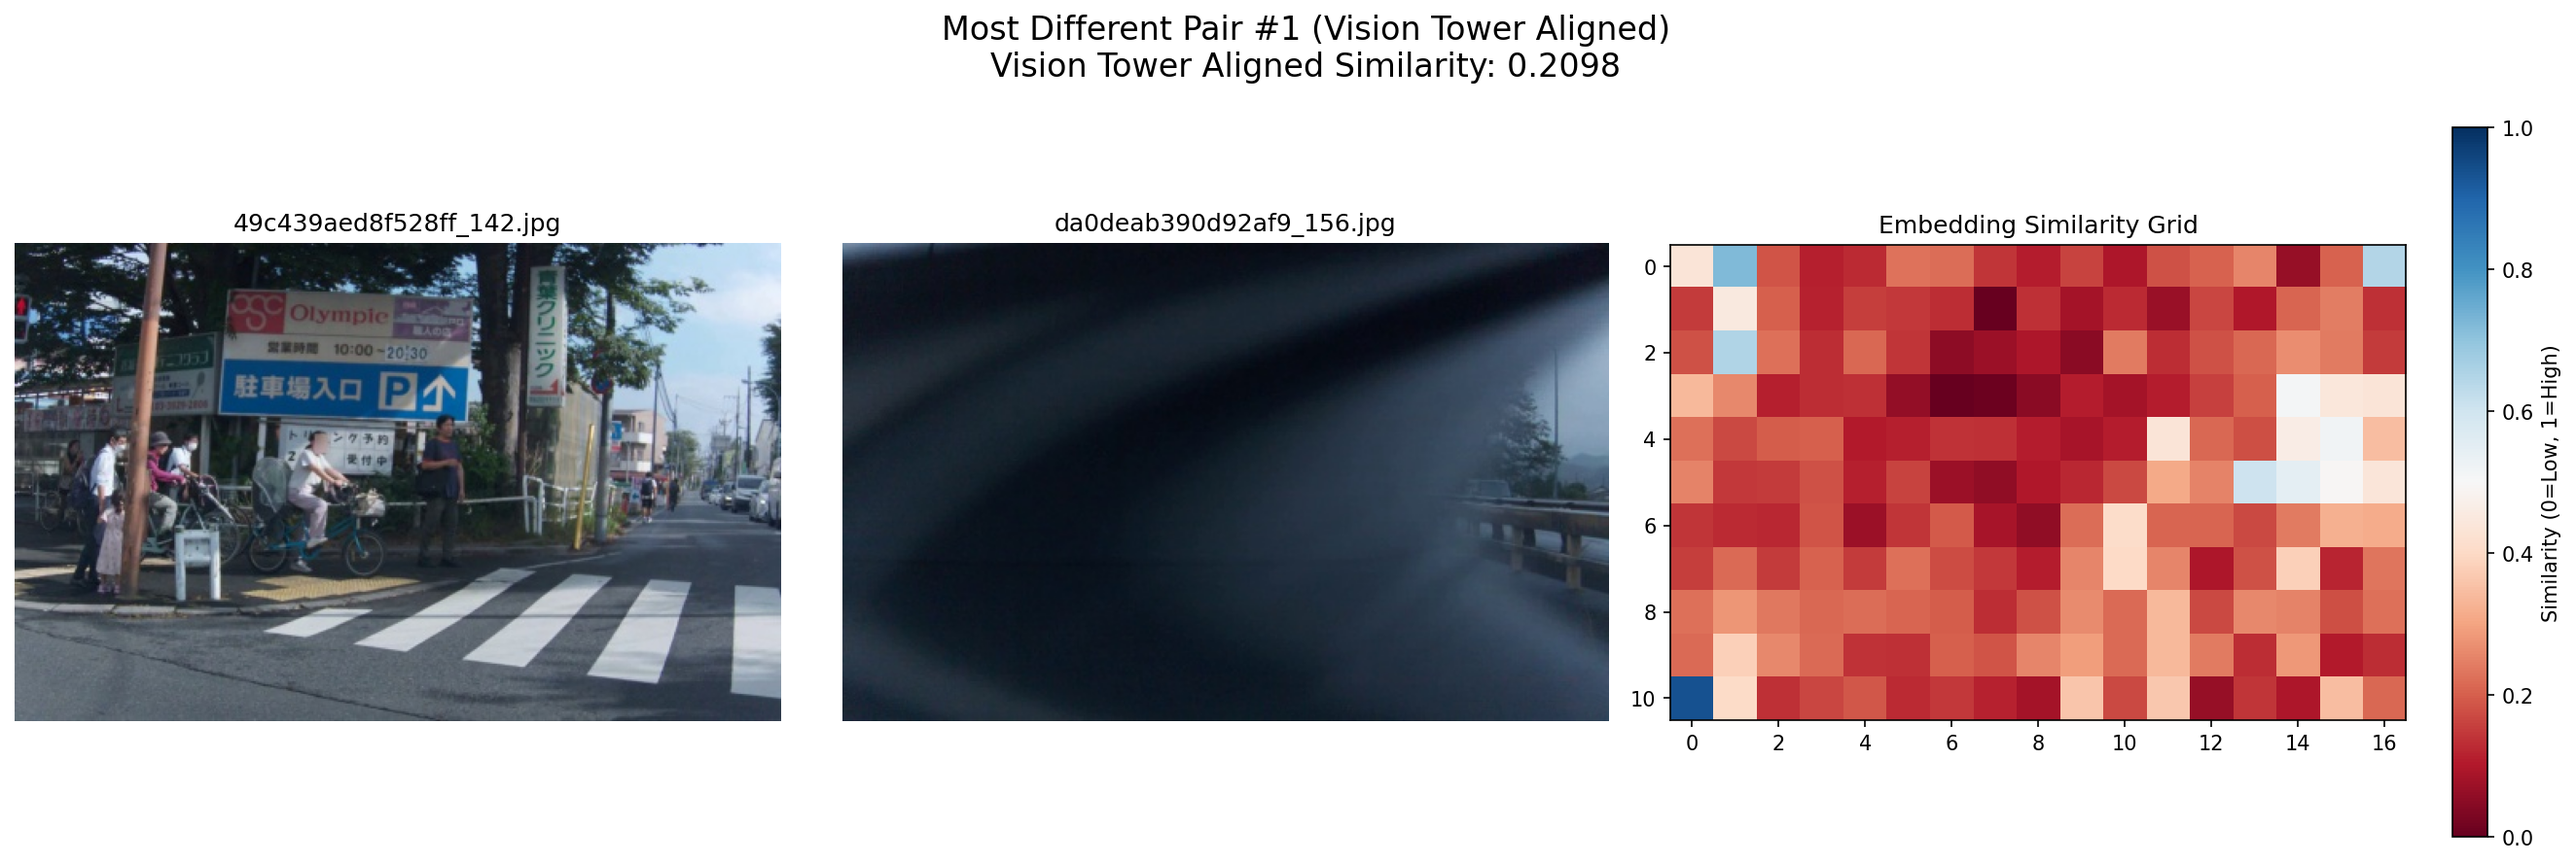
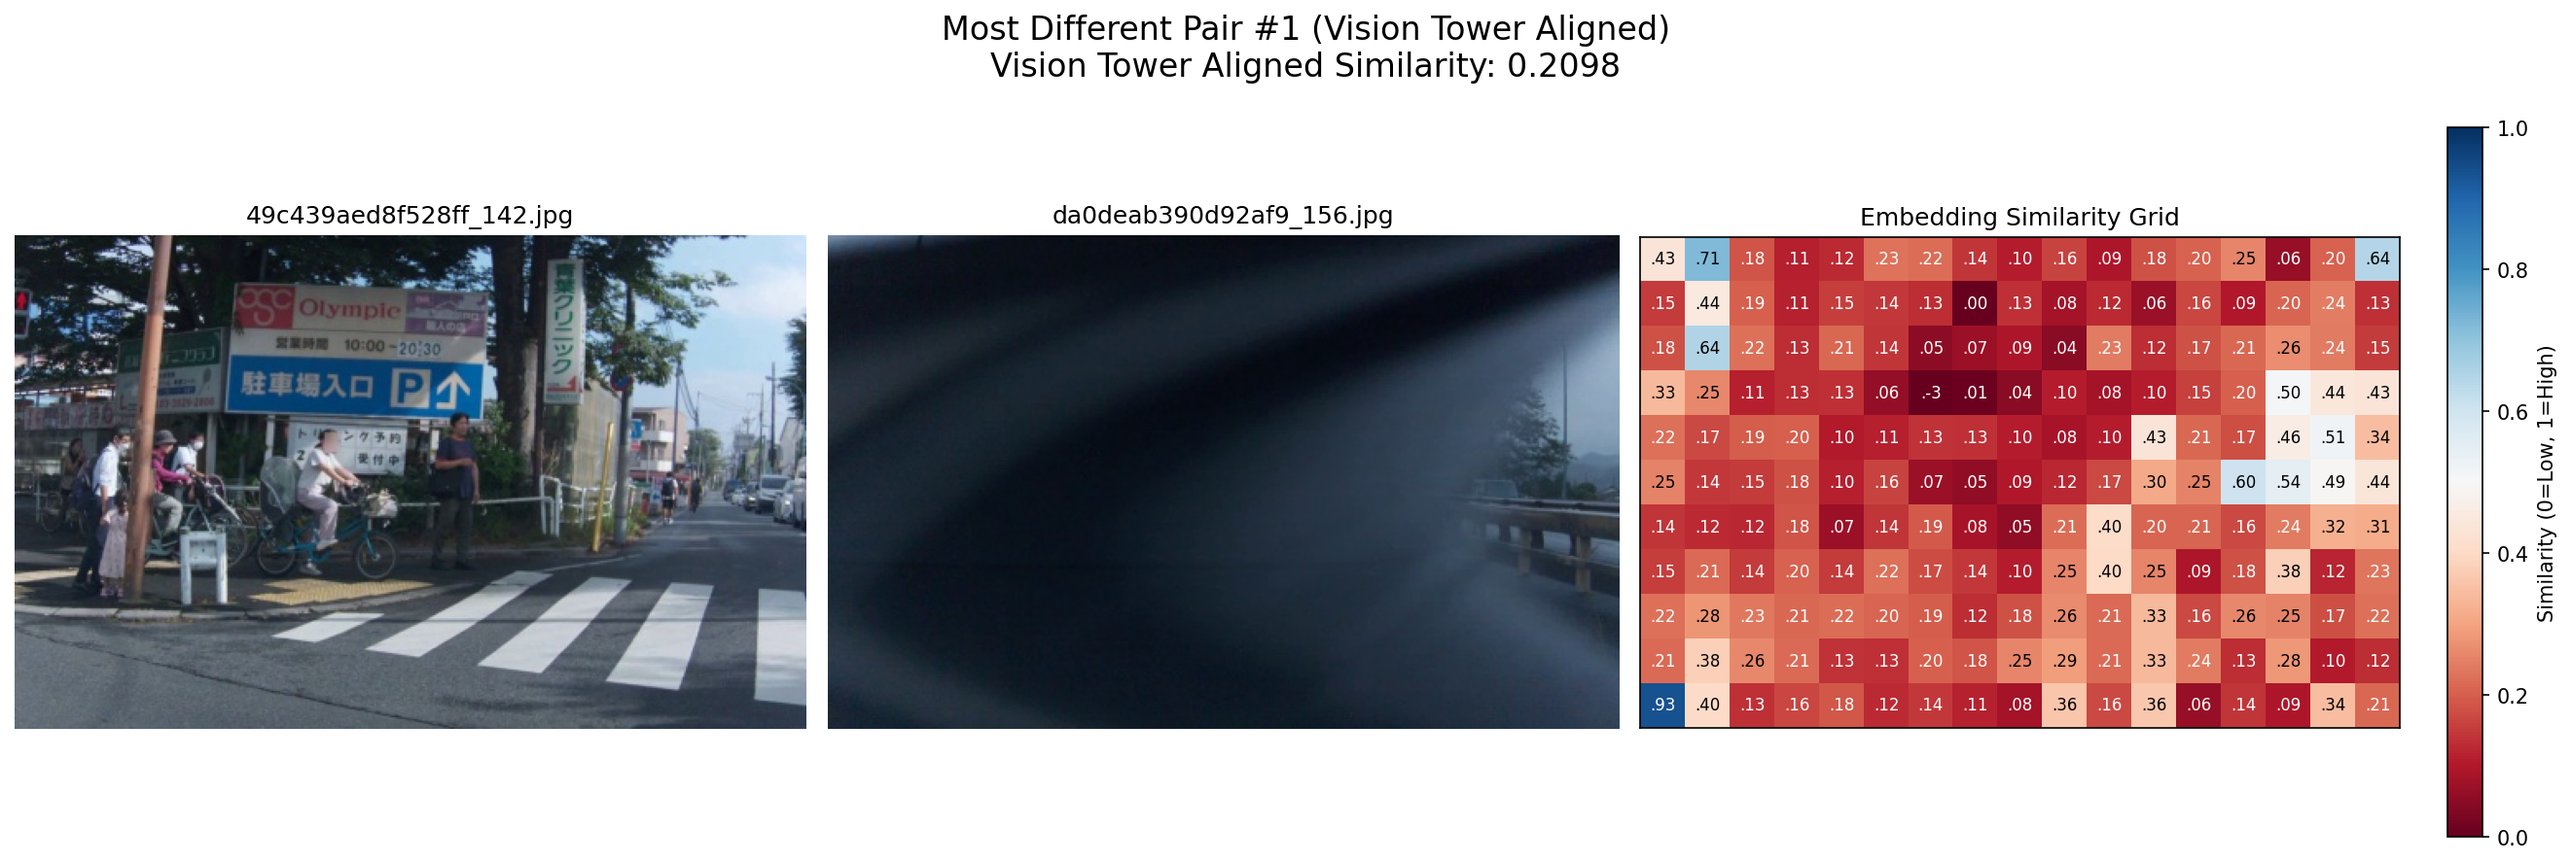
add similarities to grid

Changed region(s): [[0.0, 0.2432, 0.9308, 0.8514], [0.3723, 0.0, 0.6515, 0.0912], [0.0621, 0.7601, 0.0931, 0.7905]]

diff --git a/6_aligned_similarity_result.py b/6_aligned_similarity_result.py
@@ -93,6 +93,27 @@ def create_complete_visualization(img1_path, img2_path, similarity, pairwise_sim
     cmap = plt.cm.RdBu  # Blue to Red colormap (swapped as requested)
     im = ax3.imshow(grid, cmap=cmap, vmin=0, vmax=1)
     
+    # Remove ticks from grid axes
+    ax3.set_xticks([])
+    ax3.set_yticks([])
+    
+    # Add text annotations to each cell
+    for i in range(grid.shape[0]):
+        for j in range(grid.shape[1]):
+            value = grid[i, j]
+            # Format value as specified: two decimal places, no leading zero
+            text_value = f".{int(value * 100):02d}"
+            
+            # Determine text color based on value
+            if 0.25 <= value <= 0.75:
+                text_color = 'black'
+            else:
+                text_color = 'white'
+            
+            # Add the text to the cell with increased font size
+            ax3.text(j, i, text_value, ha='center', va='center', 
+                    color=text_color, fontsize=8)
+    
     # Add colorbar
     cbar = plt.colorbar(im, ax=ax3)
     cbar.set_label('Similarity (0=Low, 1=High)')
